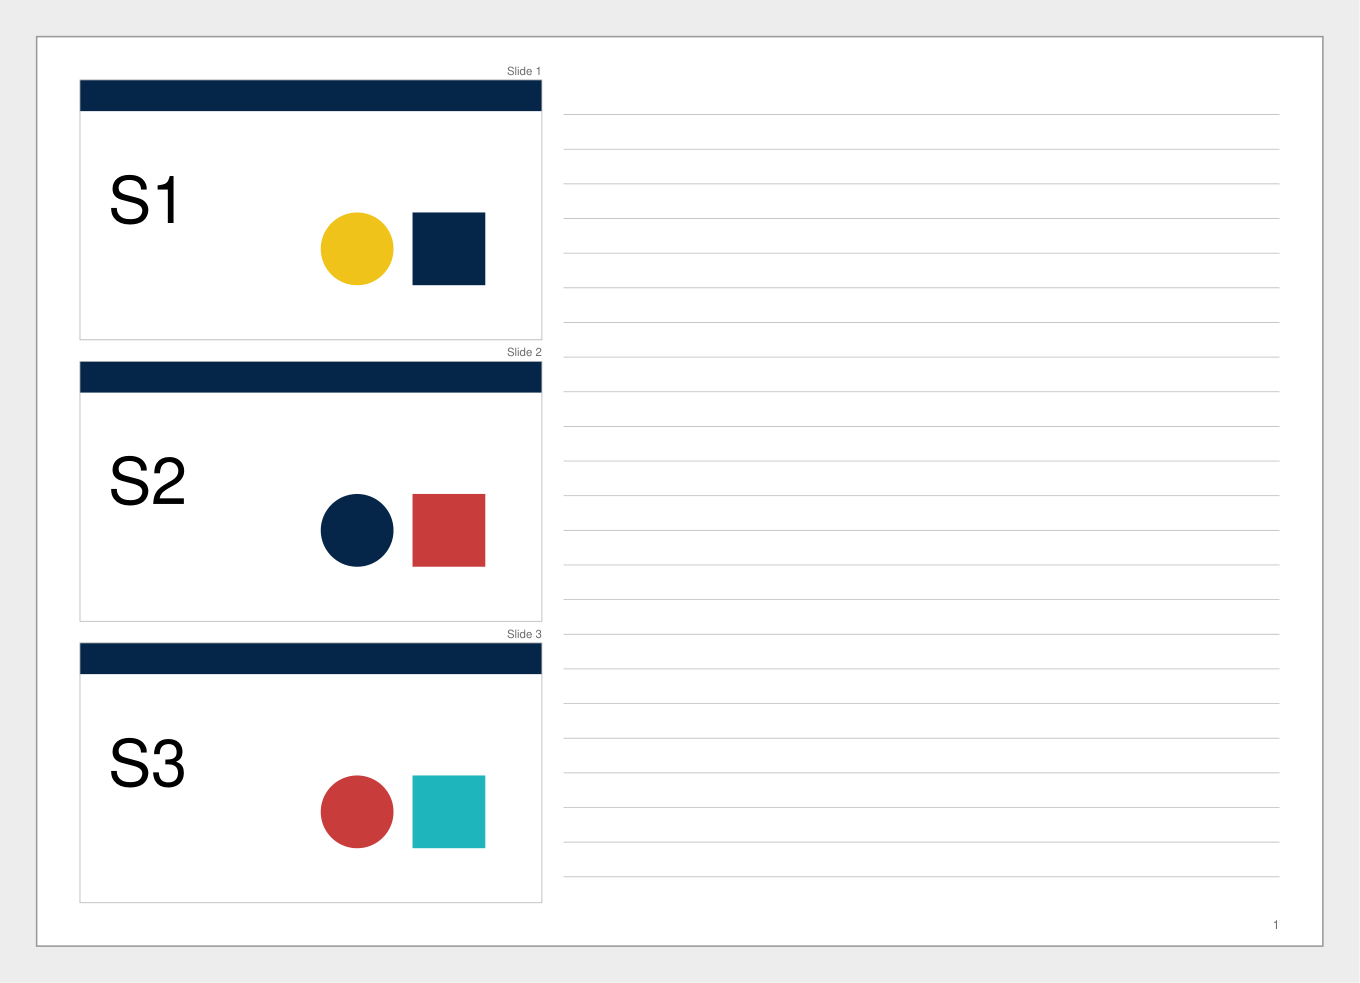
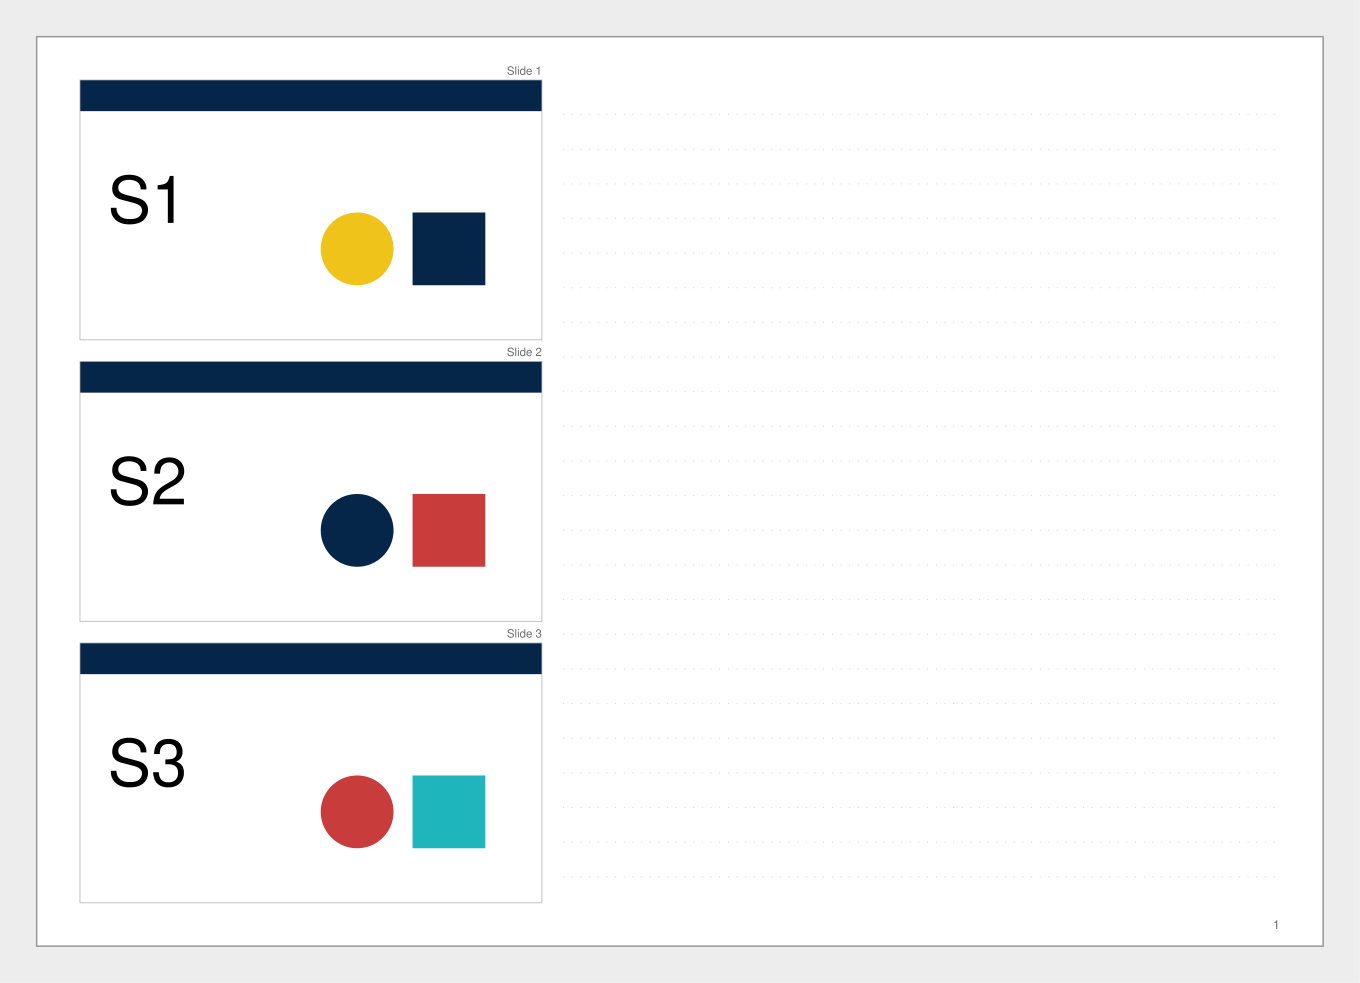
feat: draw ruled lines as dotted lines
Each line is a row of dots a quarter of the spacing apart, drawn as one
dashed stroke per row like the dot grid. The gallery renders at 4x and
averages down, so thin dots show evenly in the preview images.

Changed region(s): [[0.0926, 0.4883, 0.1235, 0.5188]]

diff --git a/scripts/slide_handouts/render.py b/scripts/slide_handouts/render.py
@@ -46,27 +46,25 @@ def _box(page: pymupdf.Page, rect: pymupdf.Rect, number: int, digits: int) -> No
 
 
 def _marks(page: pymupdf.Page, areas: list, style: str, spacing: float) -> None:
-    """All of a page's lines or dots in one shape, so big decks stay quick and small."""
+    """All of a page's lines or dots in one shape, so big decks stay quick and small.
+
+    Each row is one dashed stroke, as a dotted stroke in Illustrator: each tiny round-capped dash is a dot.
+    Lines are rows of dots a quarter of the spacing apart (Julian, 2026-11-10); dots are a square grid."""
     if style not in ("lines", "dots") or not areas:
         return
+    step = spacing / 4 if style == "lines" else spacing
     shape = page.new_shape()
     for a in areas:
         if style == "lines":
-            y = a.y0 + spacing
-            while y <= a.y1 + 0.01:
-                shape.draw_line((a.x0, y), (a.x1, y))
-                y += spacing
-        else:  # one dashed stroke per row, as a dotted stroke in Illustrator: each tiny round-capped dash is a dot
-            first = a.x0 + spacing / 2
-            last = first + int((a.x1 - first) // spacing) * spacing
-            y = a.y0 + spacing / 2
-            while y <= a.y1:
-                shape.draw_line((first, y), (last + spacing / 2, y))  # half a gap past the last dot, so its dash is drawn
-                y += spacing
-    if style == "lines":
-        shape.finish(color=LINE, width=0.5)
-    else:  # the dash period equals the spacing exactly, so dots never creep along a row
-        shape.finish(color=LINE, width=0.6, lineCap=1, closePath=False, dashes=f"[0.01 {spacing - 0.01:.4f}] 0")
+            first, y, bottom = a.x0, a.y0 + spacing, a.y1 + 0.01
+        else:
+            first, y, bottom = a.x0 + spacing / 2, a.y0 + spacing / 2, a.y1
+        last = first + int((a.x1 - first) // step) * step
+        while y <= bottom:
+            shape.draw_line((first, y), (last + step / 2, y))  # half a gap past the last dot, so its dash is drawn
+            y += spacing
+    # the dash period equals the step exactly, so dots never creep along a row
+    shape.finish(color=LINE, width=0.6, lineCap=1, closePath=False, dashes=f"[0.01 {step - 0.01:.4f}] 0")
     shape.commit()
 
 

diff --git a/tests/test_render.py b/tests/test_render.py
@@ -113,6 +113,22 @@ def test_dots_sit_on_the_grid_to_the_end_of_each_row(tmp_path):
             assert pix.pixel(round((x + step / 2) * zoom), round(y * zoom))[0] > 250, (x, y)  # white between
 
 
+def test_lines_are_dotted_with_three_dots_between_grid_dots(tmp_path):
+    # Julian, 2026-11-10: each ruled line is a row of dots a quarter of the spacing apart, from the left edge to the right.
+    opts = dict(notes="under", per_page=2, style="lines", spacing_mm=8)
+    _, out = build(tmp_path, src=deck_pdf(tmp_path / "d.pdf", n=2), **opts)
+    area = plan_page(LayoutOptions(**{**O, **opts}), 405 / 720).cells[0].notes[0]
+    spacing, zoom = 8 * 72 / 25.4, 8
+    step = spacing / 4
+    pix = pymupdf.open(out)[0].get_pixmap(matrix=pymupdf.Matrix(zoom, zoom))
+    ys = [area.y0 + spacing * j for j in range(1, int(area.height // spacing) + 1)]
+    xs = [area.x0 + step * k for k in range(int(area.width // step) + 1)]
+    for y in (ys[0], ys[-1]):
+        for x in xs[1:]:  # the first dot's left half sits on the area's edge, so check from the second
+            assert pix.pixel(round(x * zoom), round(y * zoom))[0] < 235, (x, y)  # a dot here
+            assert pix.pixel(round((x - step / 2) * zoom), round(y * zoom))[0] > 250, (x, y)  # white between
+
+
 def test_labels_keep_their_font_when_the_slides_also_use_helvetica(tmp_path):
     # The made-up slides set "S1" in PyMuPDF's "helv" too. That name must not hide the labels' own font.
     _, out = build(tmp_path, src=deck_pdf(tmp_path / "d.pdf", n=4))

diff --git a/tools/build_gallery.py b/tools/build_gallery.py
@@ -47,7 +47,9 @@ def snapshot(pdfs: list, png: Path, dpi: int, labels: tuple = ()) -> None:
         page.draw_rect(rect, color=None, fill=(1, 1, 1))
         page.show_pdf_page(rect, doc, 0)
         page.draw_rect(rect, color=(0.6, 0.6, 0.6), width=1)
-    page.get_pixmap(dpi=dpi).save(str(png))
+    pix = page.get_pixmap(dpi=dpi * 4)  # render at 4x and average down, or the 0.6 pt dots alias into uneven or missing dots
+    pix.shrink(2)
+    pix.save(str(png))
 
 
 def main() -> None:

diff --git a/README.md b/README.md
@@ -72,7 +72,7 @@ If you have a PowerPoint, Keynote or Google Slides deck, export it to PDF first.
 
 **Notes position.** Beside each slide, under each slide, or both. Notes beside suit wide pages and short notes per slide. Notes under give each slide a full-width writing area.
 
-**Notes style.** Ruled lines, a dot grid, blank space, or a typeable box. Lines and dots suit pens. Blank space suits sketches and diagrams. A typeable box makes the PDF fillable, so you can type notes on screen. A box works beside or under each slide, not both.
+**Notes style.** Dotted lines, a dot grid, blank space, or a typeable box. Each line is a row of dots a quarter of the spacing apart. Lines and dots suit pens. Blank space suits sketches and diagrams. A typeable box makes the PDF fillable, so you can type notes on screen. A box works beside or under each slide, not both.
 
 **Spacing.** For lines and dots, the gap between them, from 4 to 12 mm. Narrow is 6 mm, medium is 7 mm and wide is 8 mm, and any value in between works. Wider spacing suits larger handwriting and gives fewer lines.
 

diff --git a/skills/handouts/SKILL.md b/skills/handouts/SKILL.md
@@ -55,7 +55,7 @@ The export guide is at https://github.com/juliandickie/slide-handouts-plugin/blo
 - upright or sideways pages: `--orientation portrait` or `--orientation landscape`
 - "3 to a page": `--per-page 3` (1, 2, 3, 4 or 6)
 - notes to the side, below, or both: `--notes beside`, `--notes under`, `--notes both`
-- ruled lines, dots, empty space, a box to type into: `--style lines`, `--style dots`, `--style blank`, `--style box`
+- dotted lines, a dot grid, empty space, a box to type into: `--style lines`, `--style dots`, `--style blank`, `--style box`
 - narrow, medium or wide spacing: `--spacing 6`, `--spacing 7`, `--spacing 8` (any value from 4 to 12 mm)
 - bigger slides, in between, more room to write: `--size larger`, `--size medium`, `--size smaller`, or an exact width such as `--size 120`
 - "example 6": `--layout-name "example 6"`, and any options given beside it change that example

diff --git a/CHANGELOG.md b/CHANGELOG.md
@@ -8,7 +8,7 @@ First release.
 - Finds every slide and its number with no typed-in positions, and stops with a plain sentence rather than guess when it cannot.
 - Keeps each hidden slide's real number when given the original PowerPoint file.
 - Builds a handout on A4 or US Letter, portrait or landscape, with 1, 2, 3, 4 or 6 slides per page.
-- Notes beside, under, or beside and under each slide, as ruled lines, a dot grid, blank space or a typeable box.
+- Notes beside, under, or beside and under each slide, as dotted lines, a dot grid, blank space or a typeable box.
 - Line and dot spacing from 4 to 12 mm, and smaller, medium, larger or exact slide widths.
 - Places slides as vectors, so they stay sharp.
 - Checks every handout before reporting it, and warns about photos that may print soft and slides under 70 mm wide.
